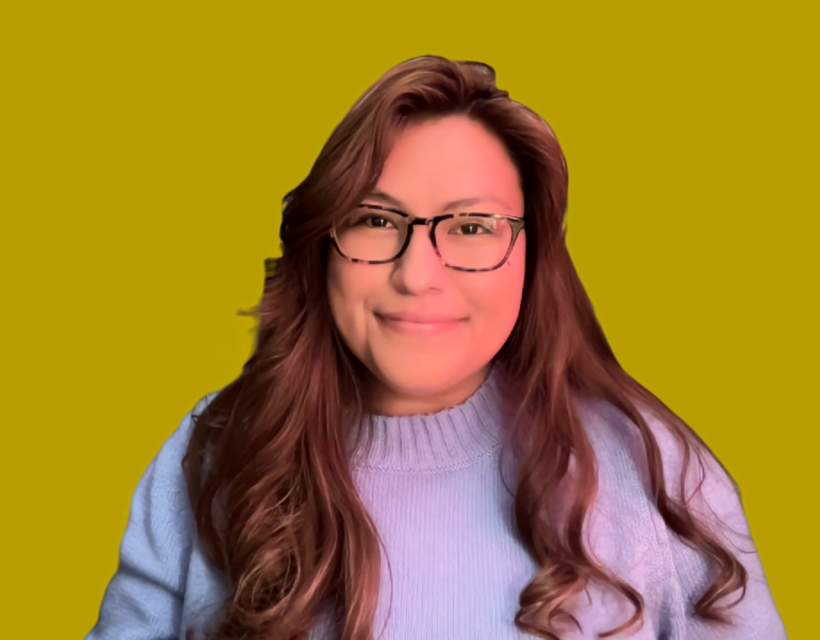
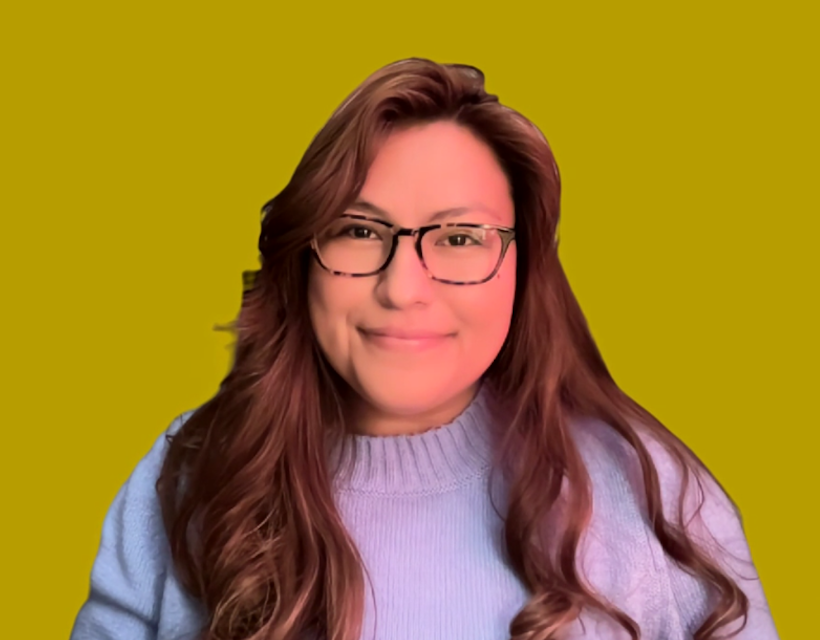
Adjusted grad-headshot images and spacing

Changed region(s): [[0.061, 0.0625, 0.9756, 1.0]]

diff --git a/cohort2026.html b/cohort2026.html
@@ -152,24 +152,18 @@
   <div class="container">
     <h1 class="center">Spring 2026 Cohort</h1>
 
-    <div class="row center">
-      <div class="col-lg-3 col-md-6 col-xs-12">
+    <!-- Begin Graduate headshots -->
+    <div class="row" style="display: flex; flex-wrap: wrap; justify-content: center;">
+      <div class="col-lg-4 col-md-6 col-xs-12">
         <a href="https://www.linkedin.com/in/ginacastromonte/" target="_blank">
         <img class="card-img-top" style="width: 300px" src="assets/img/graduates/2026/Gina.png" alt="Gina Castromonte" />
         <figcaption class="row text-center text-lg-left">
           Gina Castromonte
         </figcaption>
-      </div>
-      <div class="col-lg-3 col-md-6 col-xs-12">
-        <a href="https://www.linkedin.com/in/lewis-garnett-dev/" target="_blank">
-          <img class="card-img-top" style="width: 300px" src="assets/img/graduates/2026/Lewis.png"
-            alt="Lewis Garnett" />
-          <figcaption class="row text-center text-lg-left">
-            Lewis Garnett
-          </figcaption>
         </a>
       </div>
-      <div class="col-lg-3 col-md-6 col-xs-12">
+
+      <div class="col-lg-4 col-md-6 col-xs-12">
         <a href="https://www.linkedin.com/in/jacquelynnehudson/" target="_blank">
           <img class="card-img-top" style="width: 300px" src="assets/img/graduates/2026/Jacqui.png"
             alt="Jacqui Hudson-Underwood" />
@@ -178,14 +172,25 @@
           </figcaption>
         </a>
       </div>
-      <div class="col-lg-3 col-md-6 col-xs-12">
-      <a href="https://www.linkedin.com/in/melissasilla/" target="_blank">
-        <img class="card-img-top" style="width: 300px" src="assets/img/graduates/2026/Melissa.png" alt="Melissa Silla" />
+      
+      <div class="col-lg-4 col-md-6 col-xs-12">
+        <img class="card-img-top" style="width: 300px" src="assets/img/graduates/2026/Jaiden.png" alt="Jaiden Wilson" />
         <figcaption class="row text-center text-lg-left">
-          Melissa Silla
+          Jaiden Wilson
         </figcaption>
       </div>
-      <div class="col-lg-3 col-md-6 col-xs-12">
+      
+      <div class="col-lg-4 col-md-6 col-xs-12">
+        <a href="https://www.linkedin.com/in/lewis-garnett-dev/" target="_blank">
+          <img class="card-img-top" style="width: 300px" src="assets/img/graduates/2026/Lewis.png"
+            alt="Lewis Garnett" />
+          <figcaption class="row text-center text-lg-left">
+            Lewis Garnett
+          </figcaption>
+        </a>
+      </div>
+
+      <div class="col-lg-4 col-md-6 col-xs-12">
         <a href="https://www.linkedin.com/in/miguel-melendez-cambma/" target="_blank">
           <img class="card-img-top" style="width: 300px" src="assets/img/graduates/2026/Miguel.png"
             alt="Miguel Melendez" />
@@ -194,7 +199,16 @@
           </figcaption>
         </a>
       </div>
-    </div>
+
+      <div class="col-lg-4 col-md-6 col-xs-12">
+       <a href="https://www.linkedin.com/in/melissasilla/" target="_blank">
+        <img class="card-img-top" style="width: 300px" src="assets/img/graduates/2026/Melissa.png" alt="Melissa Silla" />
+          <figcaption class="row text-center text-lg-left">
+            Melissa Silla
+          </figcaption>
+        </a>
+      </div>
+      </div>
   </div>
   <br />
 